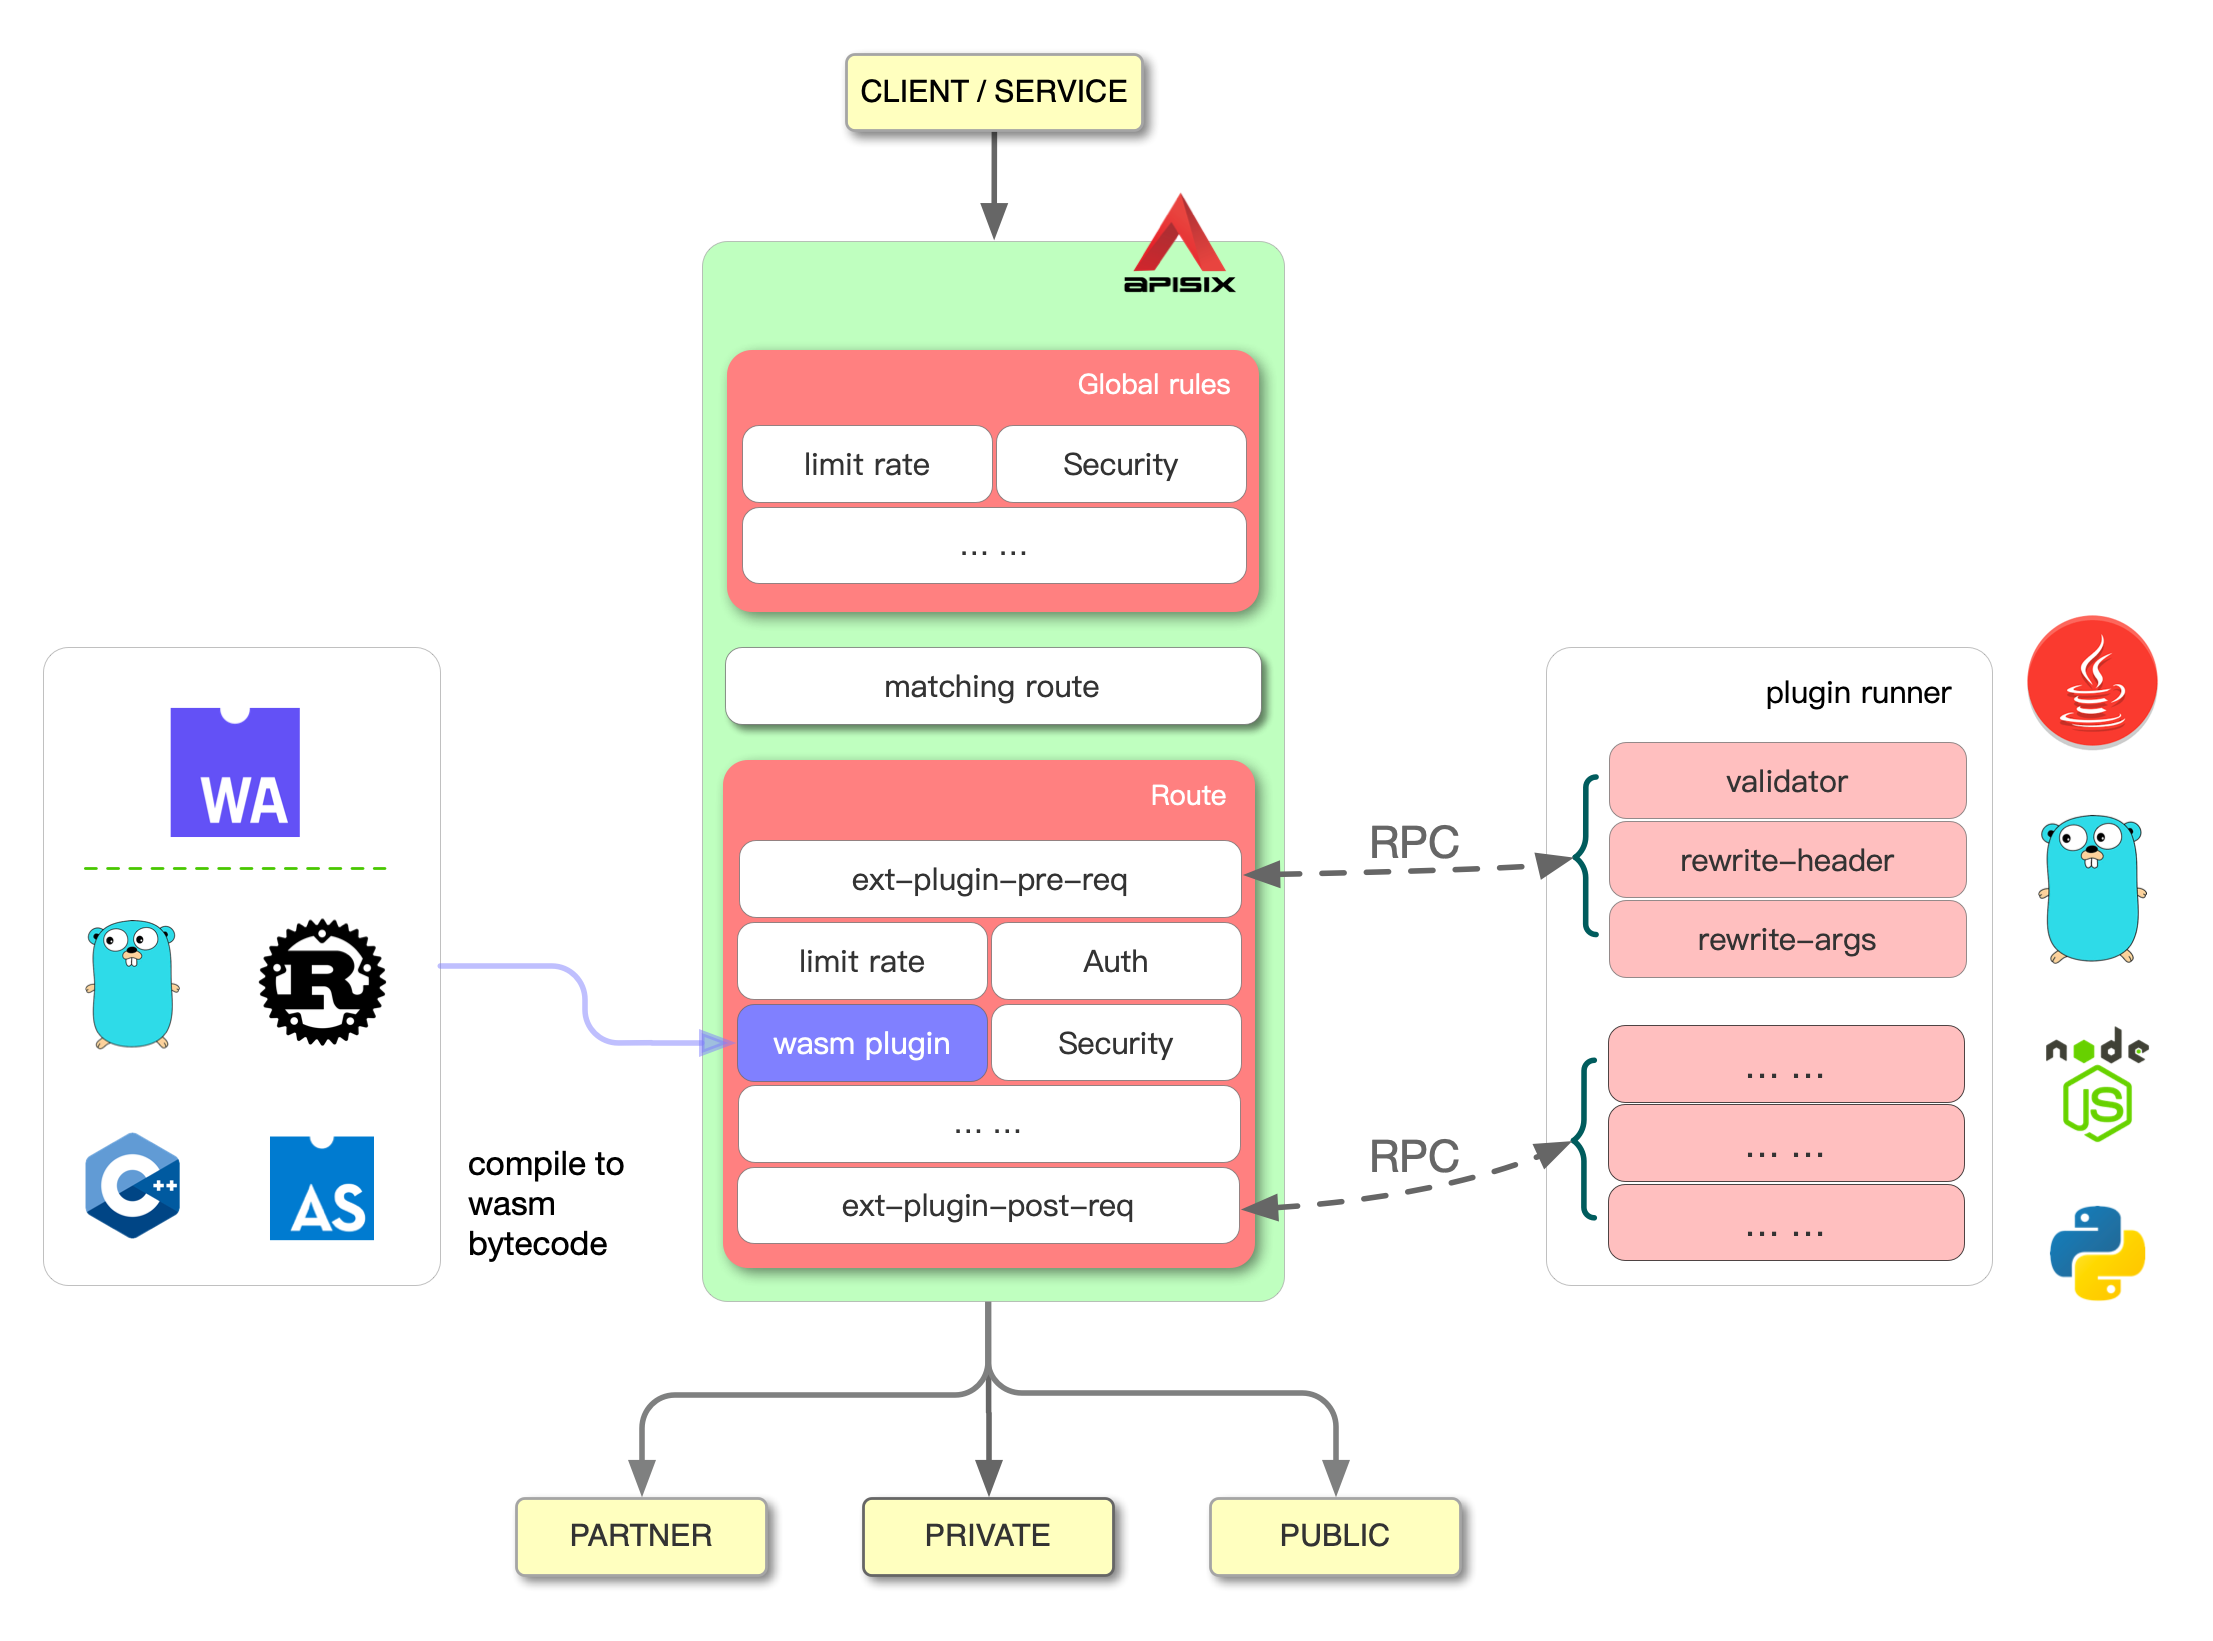
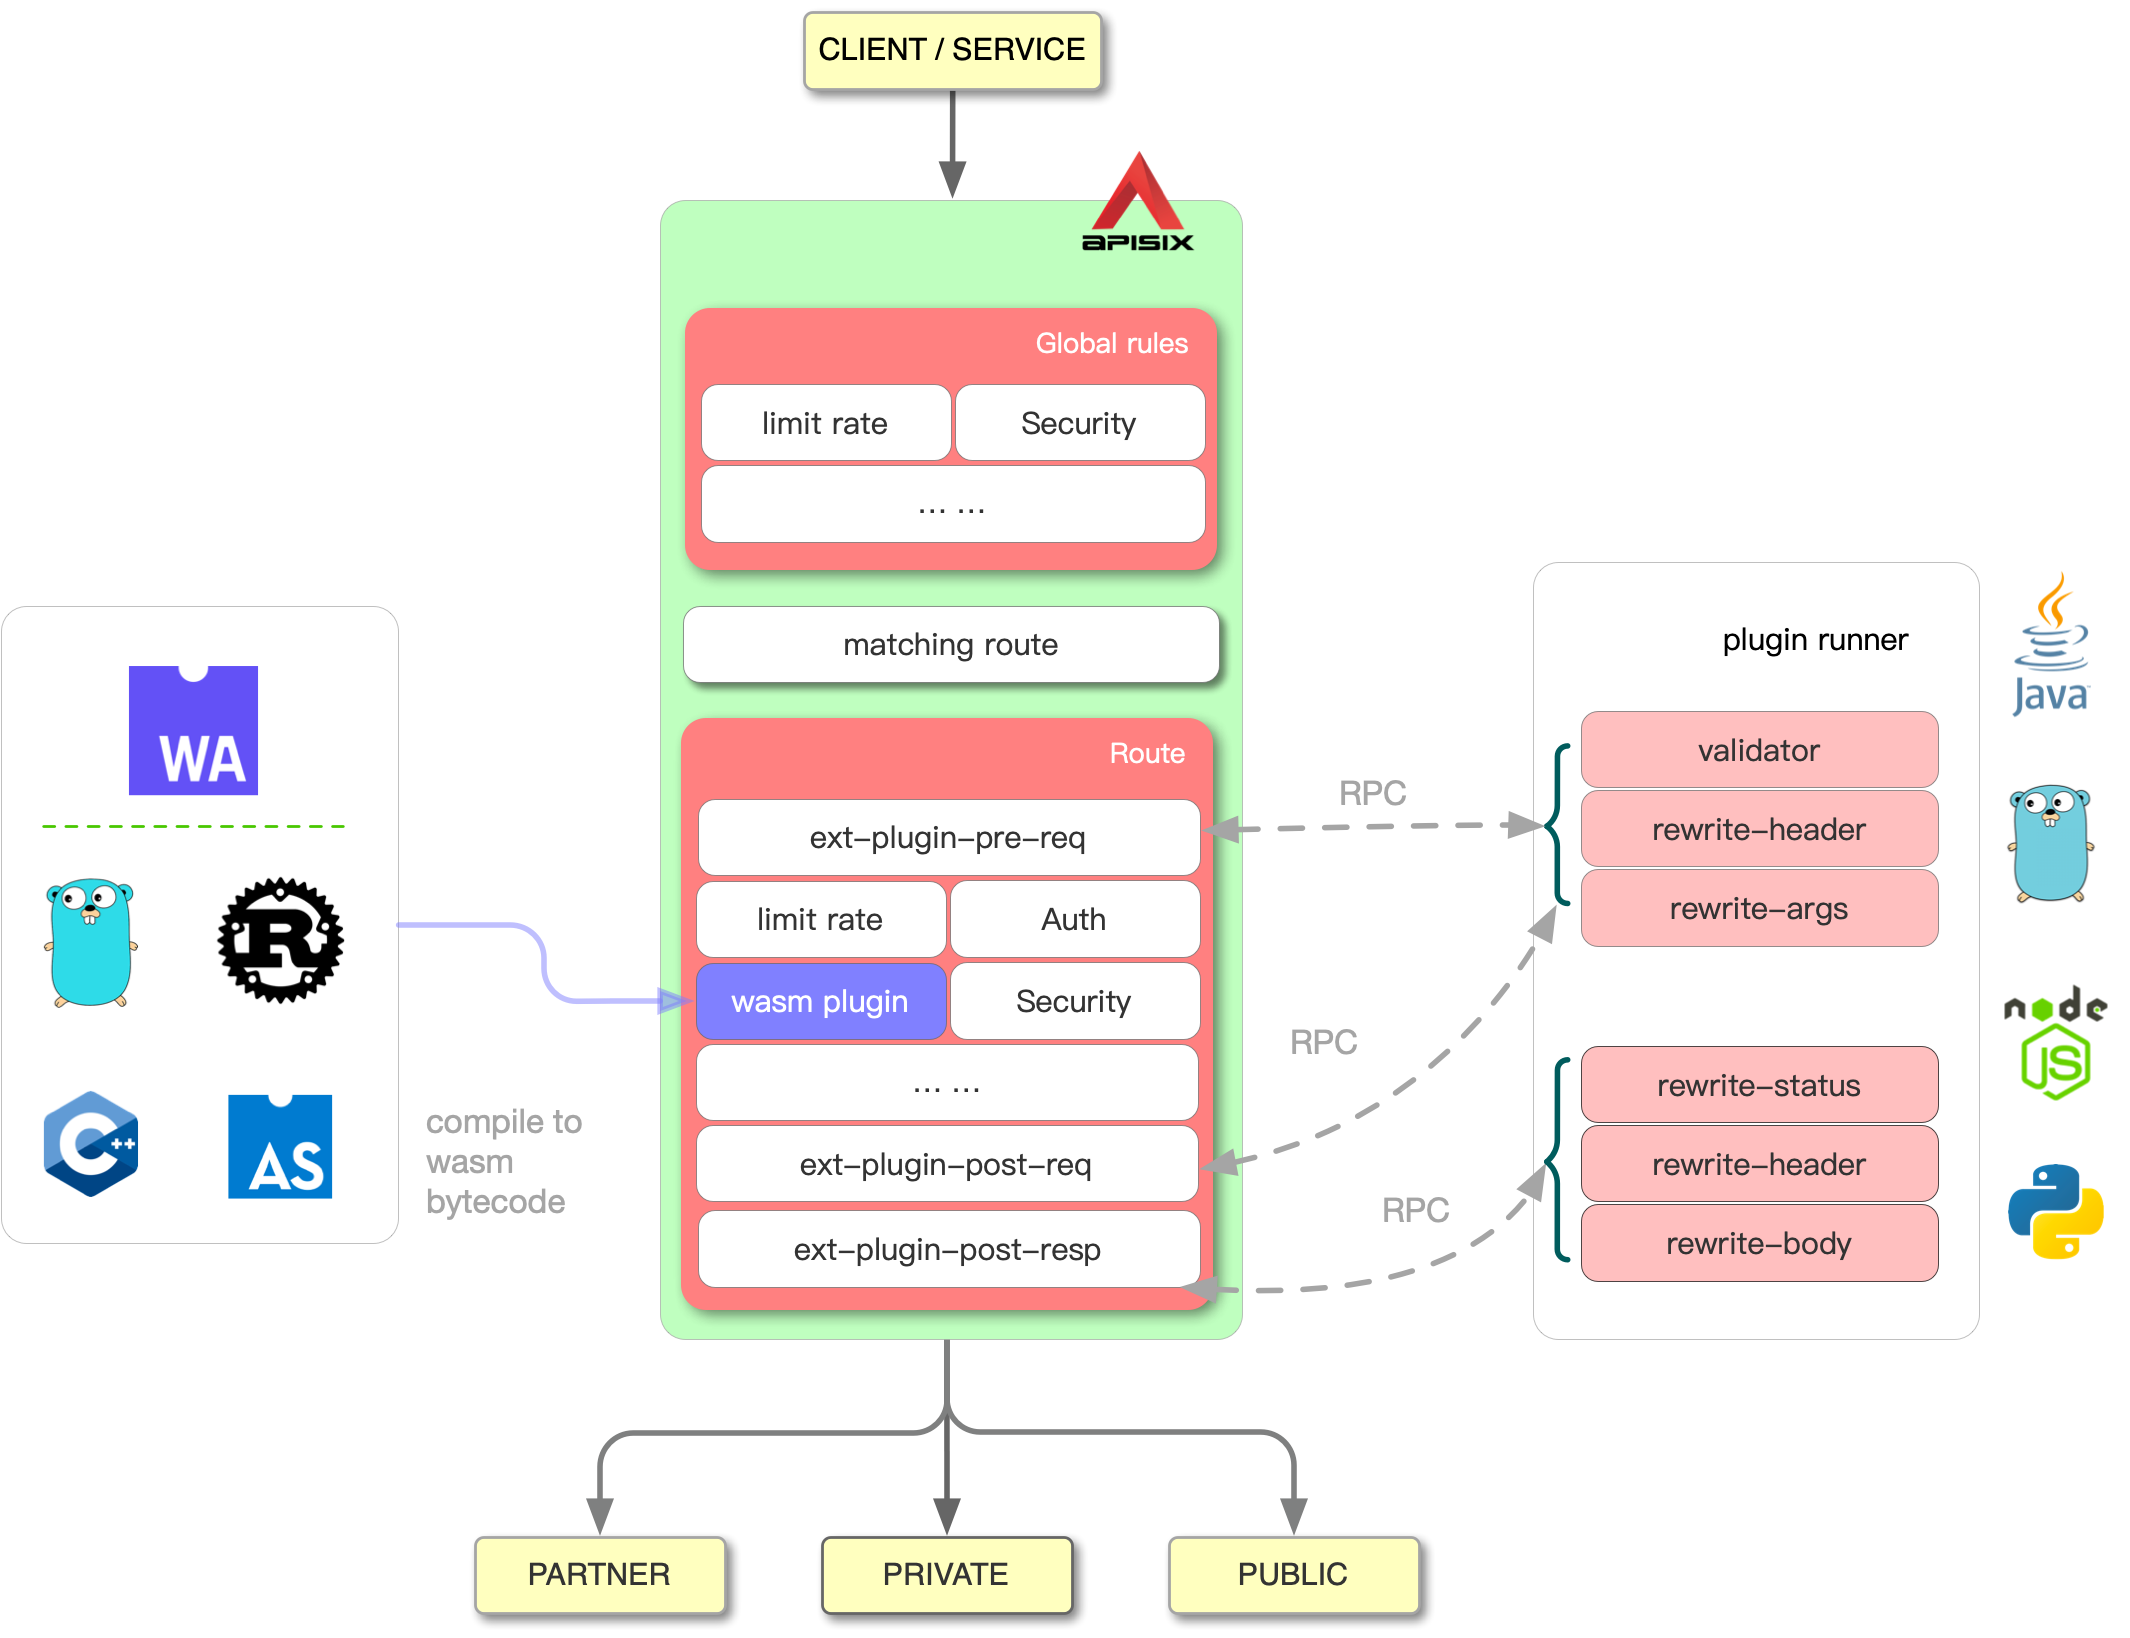
docs(ext-plugin-post-resp): add ext-plugin-post-resp plugin documentation (#7306)

Changed region(s): [[0.2169, 0.0, 0.6817, 0.9963], [0.6197, 0.3736, 0.9915, 0.8095], [0.0, 0.4048, 0.2789, 0.7784]]

diff --git a/docs/en/latest/plugins/ext-plugin-post-resp.md b/docs/en/latest/plugins/ext-plugin-post-resp.md
@@ -1,0 +1,109 @@
+---
+title: ext-plugin-post-resp
+keywords:
+  - APISIX
+  - Plugin
+  - ext-plugin-post-resp
+description: This document contains information about the Apache APISIX ext-plugin-post-resp Plugin.
+---
+
+<!--
+#
+# Licensed to the Apache Software Foundation (ASF) under one or more
+# contributor license agreements.  See the NOTICE file distributed with
+# this work for additional information regarding copyright ownership.
+# The ASF licenses this file to You under the Apache License, Version 2.0
+# (the "License"); you may not use this file except in compliance with
+# the License.  You may obtain a copy of the License at
+#
+#     http://www.apache.org/licenses/LICENSE-2.0
+#
+# Unless required by applicable law or agreed to in writing, software
+# distributed under the License is distributed on an "AS IS" BASIS,
+# WITHOUT WARRANTIES OR CONDITIONS OF ANY KIND, either express or implied.
+# See the License for the specific language governing permissions and
+# limitations under the License.
+#
+-->
+
+## Description
+
+The `ext-plugin-post-resp` Plugin is for running specific external Plugins in the Plugin Runner before executing the built-in Lua Plugins.
+
+The `ext-plugin-post-resp` plugin will be executed after the request gets a response from the upstream.
+
+After enabling this plugin, APISIX will use the [lua-resty-http](https://github.com/api7/lua-resty-http) library to make requests to the upstream, this results in:
+
+- [proxy-control](./proxy-control.md) plugin is not available
+- [proxy-mirror](./proxy-mirror.md) plugin is not available
+- [proxy-cache](./proxy-cache.md) plugin is not available
+- [mTLS Between APISIX and Upstream](../mtls.md#mtls-between-apisix-and-upstream) function is not available yet
+
+See [External Plugin](../external-plugin.md) to learn more.
+
+:::note
+
+Execution of External Plugins will affect the response of the current request.
+
+External Plugin does not yet support getting request context information.
+
+External Plugin does not yet support getting the response body of an upstream response.
+
+:::
+
+## Attributes
+
+| Name              | Type    | Required | Default | Valid values                                                    | Description                                                                                                            |
+|-------------------|---------|----------|---------|-----------------------------------------------------------------|------------------------------------------------------------------------------------------------------------------------|
+| conf              | array   | False    |         | [{"name": "ext-plugin-A", "value": "{\"enable\":\"feature\"}"}] | List of Plugins and their configurations to be executed on the Plugin Runner.                                          |
+| allow_degradation | boolean | False    | false   |                                                                 | Sets Plugin degradation when the Plugin Runner is not available. When set to `true`, requests are allowed to continue. |
+
+## Enabling the Plugin
+
+The example below enables the `ext-plugin-post-resp` Plugin on a specific Route:
+
+```shell
+curl -i http://127.0.0.1:9080/apisix/admin/routes/1  -H 'X-API-KEY: edd1c9f034335f136f87ad84b625c8f1' -X PUT -d '
+{
+    "uri": "/index.html",
+    "plugins": {
+        "ext-plugin-post-resp": {
+            "conf" : [
+                {"name": "ext-plugin-A", "value": "{\"enable\":\"feature\"}"}
+            ]
+    },
+    "upstream": {
+        "type": "roundrobin",
+        "nodes": {
+            "127.0.0.1:1980": 1
+        }
+    }
+}'
+```
+
+## Example usage
+
+Once you have configured the External Plugin as shown above, you can make a request to execute the Plugin:
+
+```shell
+curl -i http://127.0.0.1:9080/index.html
+```
+
+This will reach the configured Plugin Runner and the `ext-plugin-A` will be executed.
+
+## Disable Plugin
+
+To disable the `ext-plugin-post-resp` Plugin, you can delete the corresponding JSON configuration from the Plugin configuration. APISIX will automatically reload and you do not have to restart for this to take effect.
+
+```shell
+curl http://127.0.0.1:9080/apisix/admin/routes/1  -H 'X-API-KEY: edd1c9f034335f136f87ad84b625c8f1' -X PUT -d '
+{
+    "uri": "/index.html",
+    "upstream": {
+        "type": "roundrobin",
+        "nodes": {
+            "127.0.0.1:1980": 1
+        }
+    }
+}'
+```

diff --git a/docs/zh/latest/plugins/ext-plugin-post-resp.md b/docs/zh/latest/plugins/ext-plugin-post-resp.md
@@ -1,0 +1,111 @@
+---
+title: ext-plugin-post-resp
+keywords:
+  - APISIX
+  - Plugin
+  - ext-plugin-post-resp
+description: 本文介绍了关于 Apache APISIX `ext-plugin-post-resp` 插件的基本信息及使用方法。
+---
+
+<!--
+#
+# Licensed to the Apache Software Foundation (ASF) under one or more
+# contributor license agreements.  See the NOTICE file distributed with
+# this work for additional information regarding copyright ownership.
+# The ASF licenses this file to You under the Apache License, Version 2.0
+# (the "License"); you may not use this file except in compliance with
+# the License.  You may obtain a copy of the License at
+#
+#     http://www.apache.org/licenses/LICENSE-2.0
+#
+# Unless required by applicable law or agreed to in writing, software
+# distributed under the License is distributed on an "AS IS" BASIS,
+# WITHOUT WARRANTIES OR CONDITIONS OF ANY KIND, either express or implied.
+# See the License for the specific language governing permissions and
+# limitations under the License.
+#
+-->
+
+## 描述
+
+`ext-plugin-post-resp` 插件用于在执行内置 Lua 插件之前和在 Plugin Runner 内运行特定的 External Plugin。
+
+`ext-plugin-post-resp` 插件将在请求获取到上游的响应之后执行。
+
+启用本插件之后，APISIX 将使用 [lua-resty-http](https://github.com/api7/lua-resty-http) 库向上游发起请求，这会导致：
+
+- [proxy-control](./proxy-control.md) 插件不可用
+- [proxy-mirror](./proxy-mirror.md) 插件不可用
+- [proxy-cache](./proxy-cache.md) 插件不可用
+- [APISIX 与上游间的双向认证](../mtls.md#apisix-与上游间的双向认证) 功能尚不可用
+
+如果你想了解更多关于 External Plugin 的信息，请参考 [External Plugin](../external-plugin.md) 。
+
+:::note
+
+External Plugin 执行的结果会影响当前请求的响应。
+
+External Plugin 尚不支持获取请求的上下文信息。
+
+External Plugin 尚不支持获取上游响应的响应体。
+
+:::
+
+## 属性
+
+| 名称              | 类型    | 必选项 | 默认值  | 有效值                                                           | 描述                                                                              |
+| ----------------- | ------ | ------ | ------- | --------------------------------------------------------------- | -------------------------------------------------------------------------------- |
+| conf              | array  | 否     |         | [{"name": "ext-plugin-A", "value": "{\"enable\":\"feature\"}"}] | 在 Plugin Runner 内执行的插件列表的配置。                                           |
+| allow_degradation | boolean| 否     | false   | [false, true]                                                    | 当 Plugin Runner 临时不可用时是否允许请求继续，当值设置为 `true` 时则自动允许请求继续。   |
+
+## 启用插件
+
+以下示例展示了如何在指定路由中启用 `ext-plugin-post-resp` 插件：
+
+```shell
+curl -i http://127.0.0.1:9080/apisix/admin/routes/1  \
+-H 'X-API-KEY: edd1c9f034335f136f87ad84b625c8f1' -X PUT -d '
+{
+    "uri": "/index.html",
+    "plugins": {
+        "ext-plugin-post-resp": {
+            "conf" : [
+                {"name": "ext-plugin-A", "value": "{\"enable\":\"feature\"}"}
+            ]
+    },
+    "upstream": {
+        "type": "roundrobin",
+        "nodes": {
+            "127.0.0.1:1980": 1
+        }
+    }
+}'
+```
+
+## 测试插件
+
+通过上述命令启用插件后，可以使用如下命令测试插件是否启用成功：
+
+```shell
+curl -i http://127.0.0.1:9080/index.html
+```
+
+在返回结果中可以看到刚刚配置的 Plugin Runner 已经被触发，同时 `ext-plugin-A` 插件也已经被执行。
+
+## 禁用插件
+
+当你需要禁用 `ext-plugin-post-resp` 插件时，可通过以下命令删除相应的 JSON 配置，APISIX 将会自动重新加载相关配置，无需重启服务：
+
+```shell
+curl http://127.0.0.1:9080/apisix/admin/routes/1  \
+-H 'X-API-KEY: edd1c9f034335f136f87ad84b625c8f1' -X PUT -d '
+{
+    "uri": "/index.html",
+    "upstream": {
+        "type": "roundrobin",
+        "nodes": {
+            "127.0.0.1:1980": 1
+        }
+    }
+}'
+```

diff --git a/docs/zh/latest/external-plugin.md b/docs/zh/latest/external-plugin.md
@@ -32,6 +32,7 @@ APISIX 支持使用 Lua 语言编写插件，这种类型的插件在 APISIX 内
 ![external-plugin](../../assets/images/external-plugin.png)
 
 当你在 APISIX 中配置了一个 Plugin Runner ，APISIX 将以子进程的方式运行该 Plugin Runner 。
+
 该子进程与 APISIX 进程从属相同用户。当重启或者重新加载 APISIX 时，该 Plugin Runner 也将被重启。
 
 一旦你为指定路由配置了 `ext-plugin-*` 插件，
